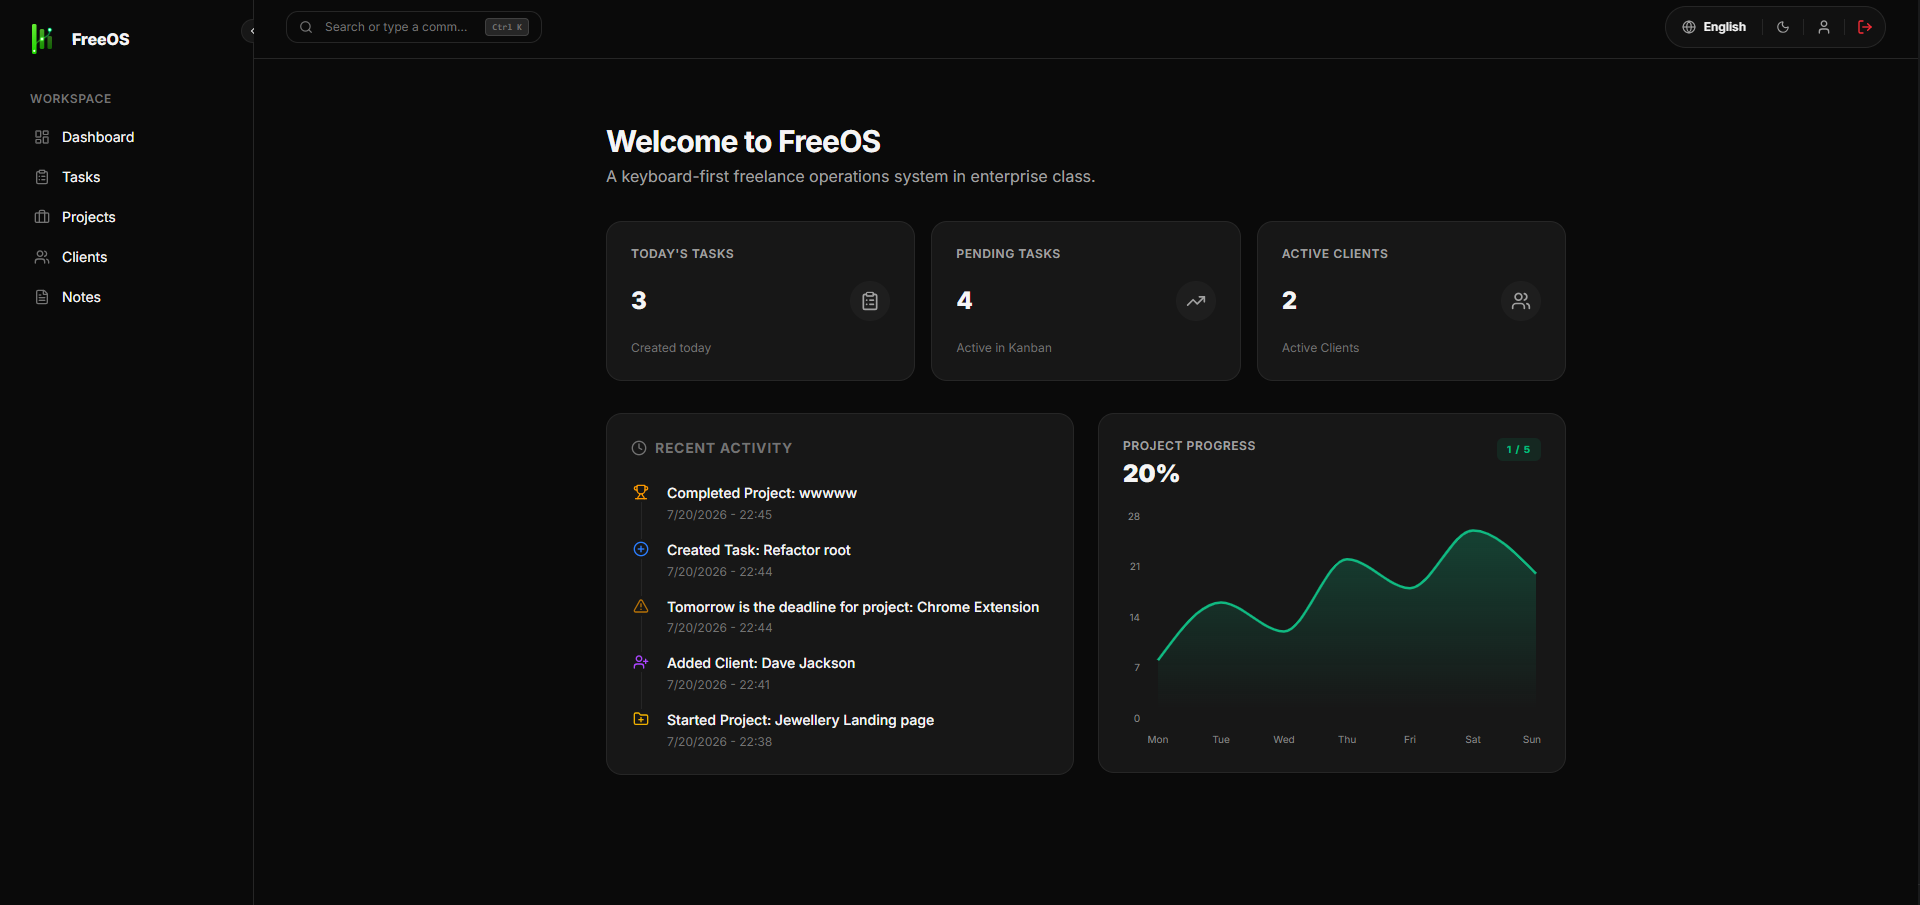
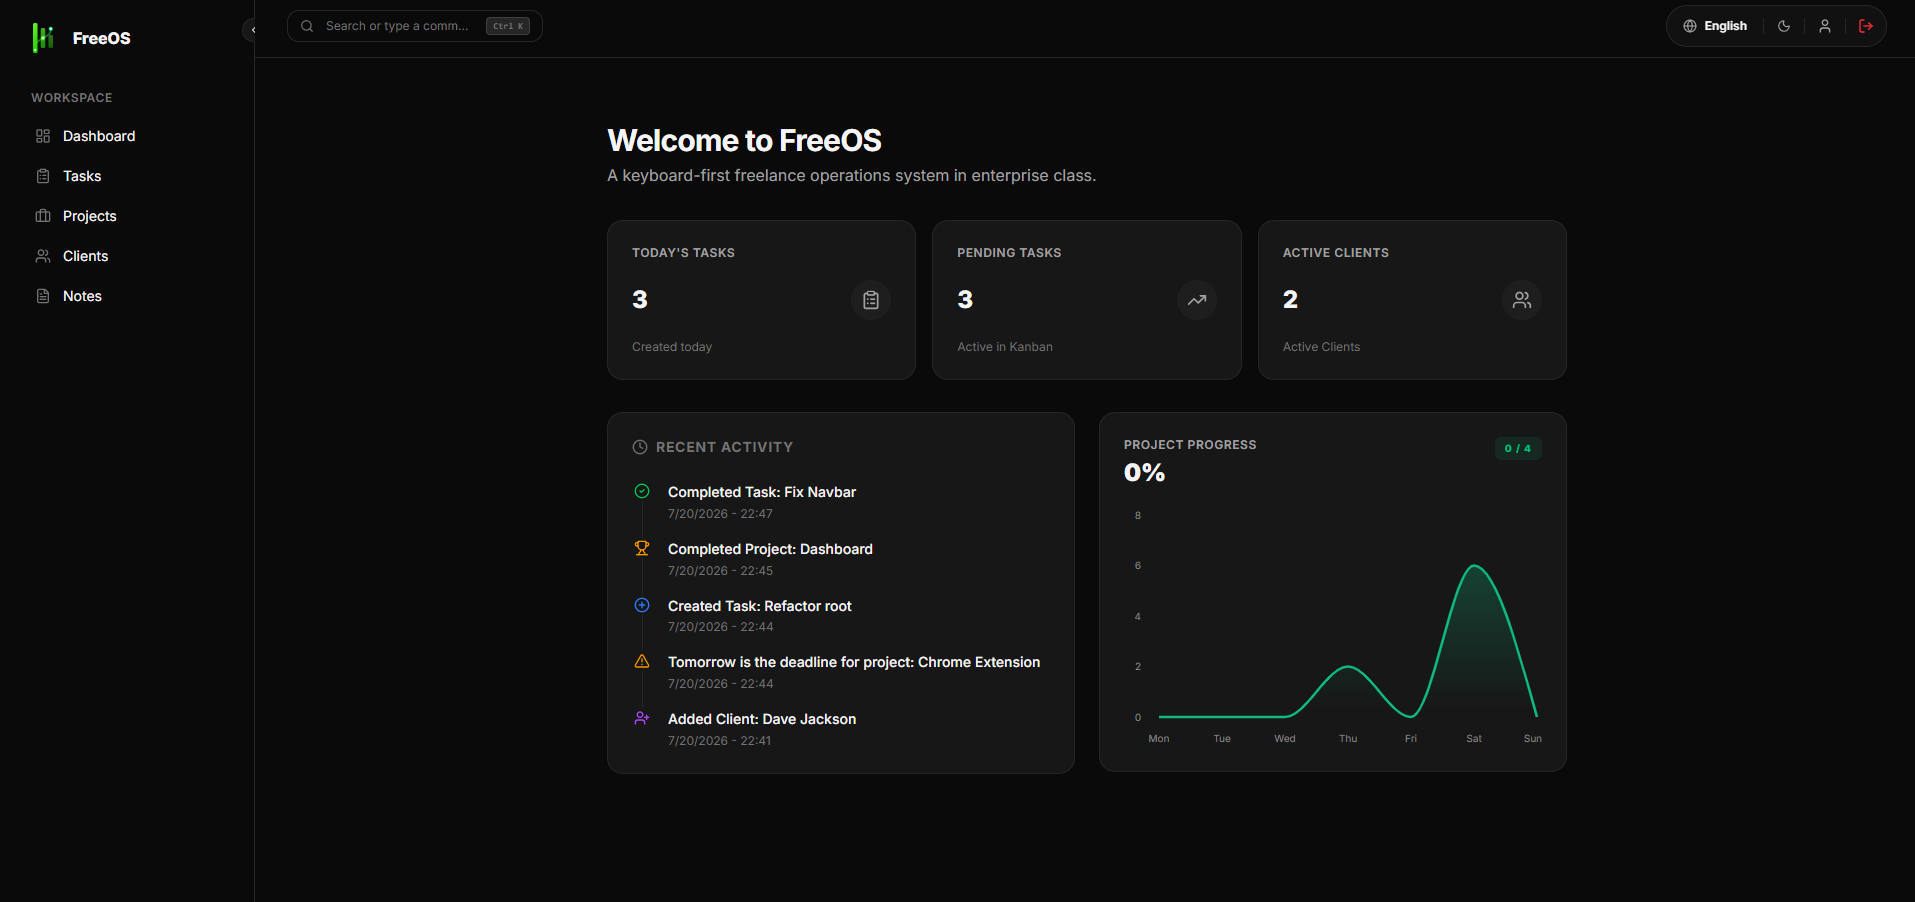
Update readme

diff --git a/README.md b/README.md
@@ -45,13 +45,11 @@
       <b>📱 Mobile Native App</b>
       <br/><br/>
       <img src="./assets/images/mobile.jpg" width="50%" alt="Mobile App Preview" />
-      <p><i>(Replace with your Mobile Native App Screenshot)</i></p>
     </td>
     <td width="50%" align="center" valign="top">
       <b>🔋 Home Screen Widget</b>
       <br/><br/>
       <img src="./assets/images/widget.jpg" width="50%" alt="Native Widget Preview" />
-      <p><i>(Replace with your Android/iOS Native Widget Screenshot)</i></p>
     </td>
   </tr>
 </table>